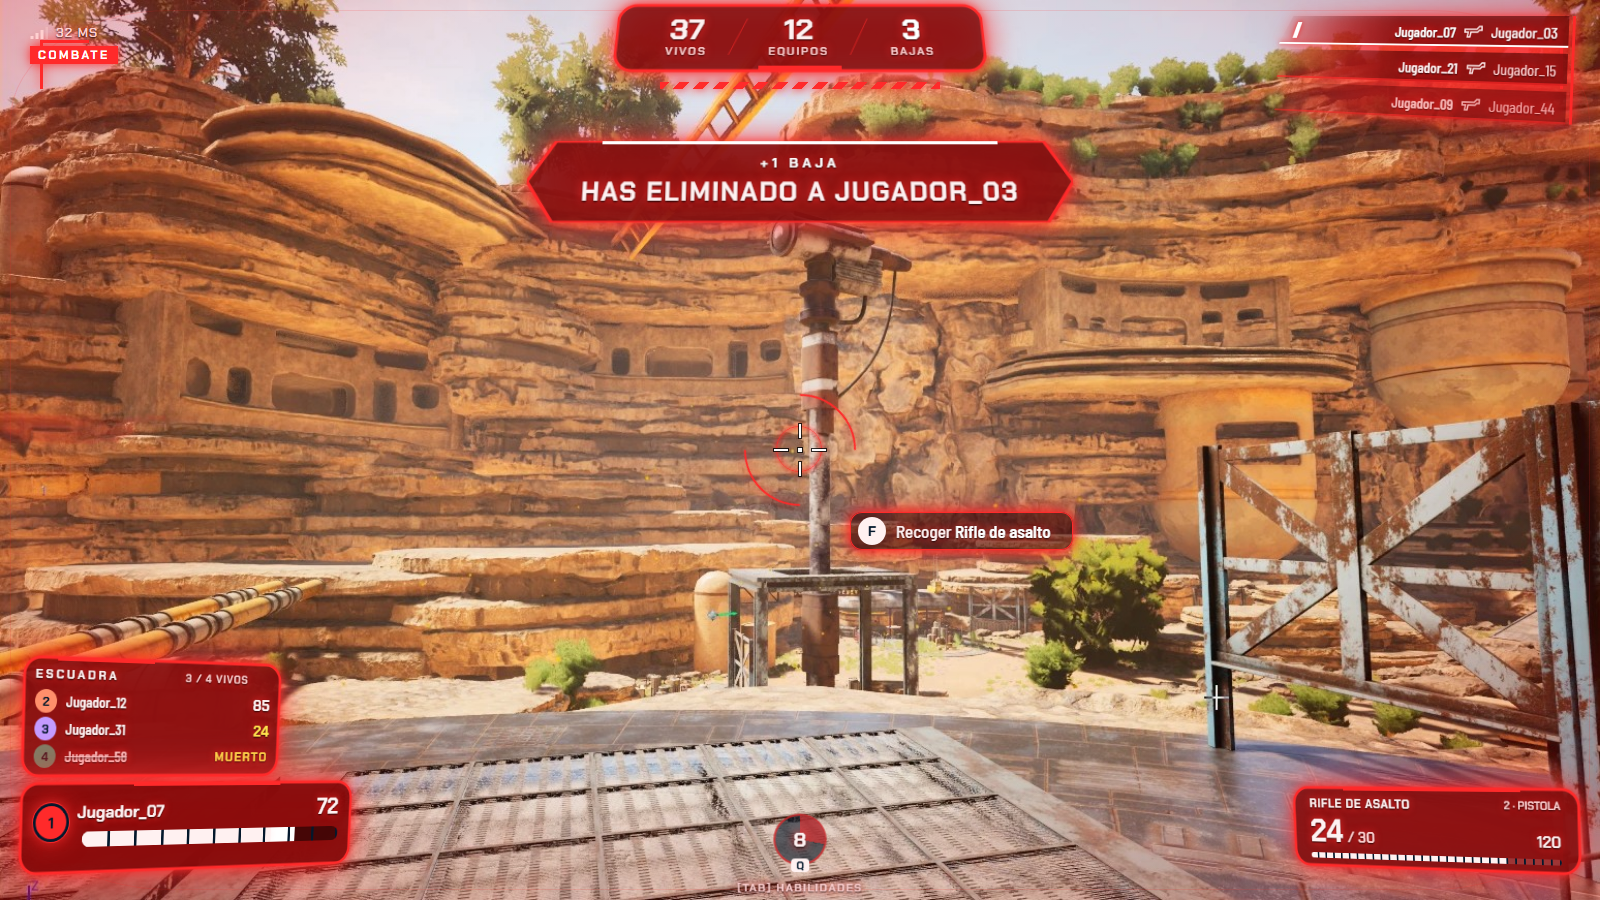
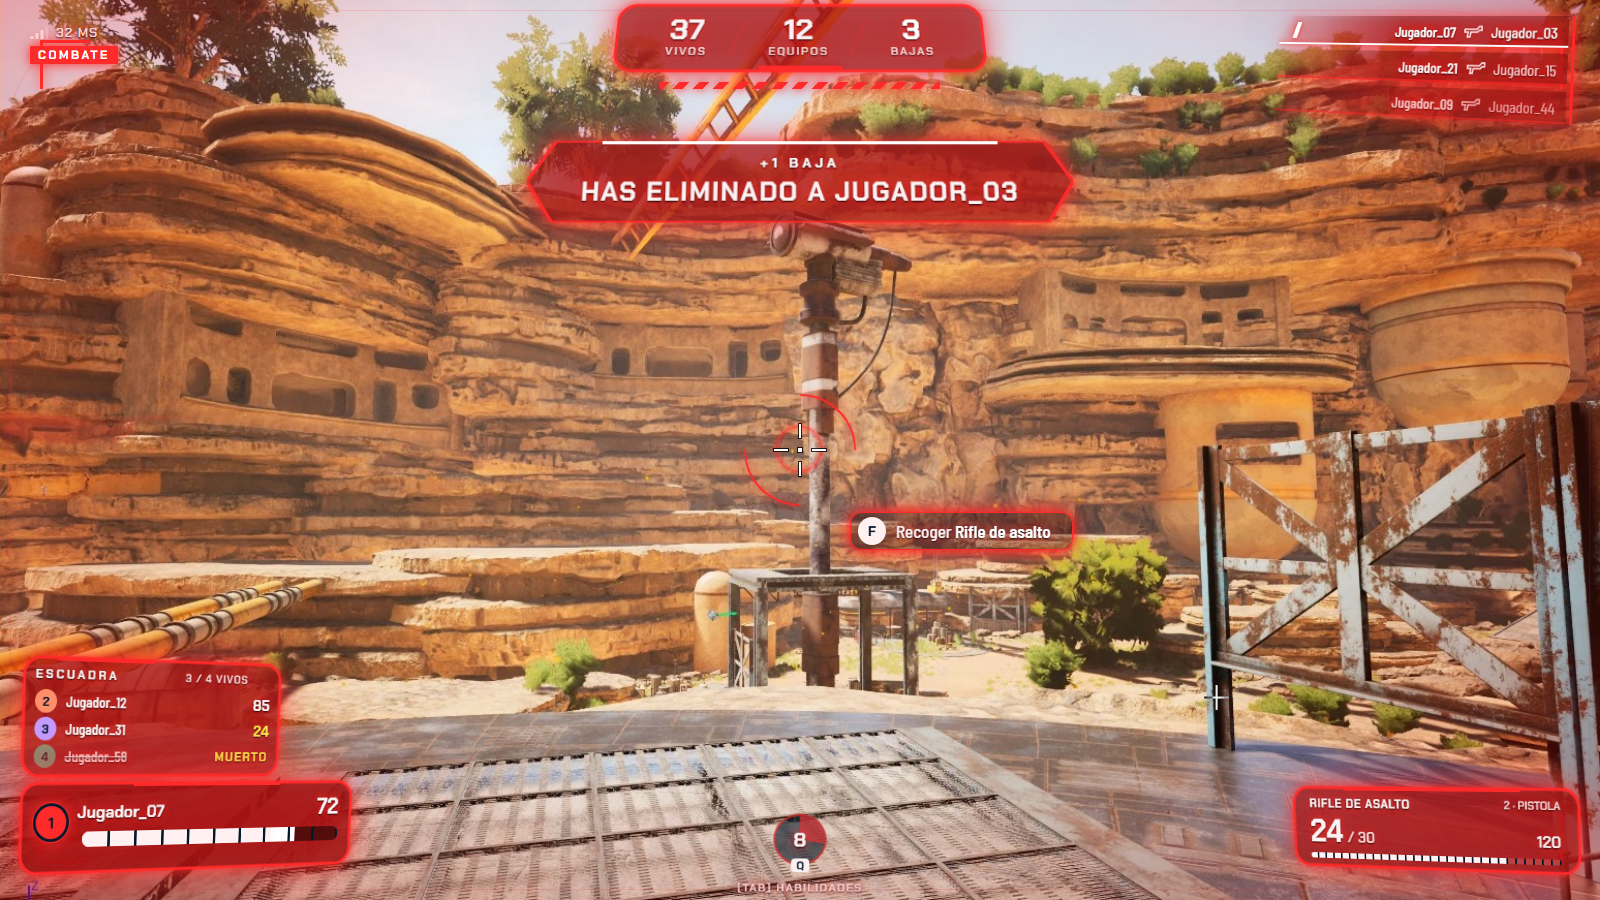
HUD mockup: more transparent panels in combat mode

diff --git a/Doc/UI/Mockups/HUD_Animado.html b/Doc/UI/Mockups/HUD_Animado.html
@@ -232,7 +232,7 @@ body:not(.m-combate) .agg{opacity:0}
 </div>
 </div>
 <script>
-const MODES={"normal": {"accent": "#38E1FF", "highlight": "#FFC94A", "panelFill": "rgba(30,150,255,0.16)", "healthFill": "rgba(30,150,255,0.30)", "dim": 0.6, "glow": "#38E1FFDD", "edge": "#38E1FF88", "textMain": "#E6FBFF", "textSub": "#CFEFFF", "critical": "#FF6B78", "strokeW": "2px", "aggressive": false, "showKillBanner": false, "bright": 1, "sat": 1}, "combate": {"accent": "#FF2A2A", "highlight": "#FFFFFF", "panelFill": "rgba(70,0,0,0.6)", "healthFill": "rgba(95,0,0,0.72)", "dim": 1, "glow": "#FF2A2AFF", "edge": "#FF2A2AAA", "textMain": "#FFF1F1", "textSub": "#FFD0D0", "critical": "#FFE14D", "strokeW": "3px", "aggressive": true, "showKillBanner": true, "bright": 1, "sat": 1}, "noche": {"accent": "#FFB23F", "highlight": "#FFFFFF", "panelFill": "rgba(60,32,0,0.45)", "healthFill": "rgba(80,42,0,0.6)", "dim": 0.8, "glow": "#FFB23FEE", "edge": "#FFB23F99", "textMain": "#FFF4E2", "textSub": "#FFE1B5", "critical": "#FF5A5A", "strokeW": "2px", "aggressive": false, "showKillBanner": true, "bright": 0.32, "sat": 0.5}, "sigilo": {"accent": "#39FF88", "highlight": "#E9FF5A", "panelFill": "rgba(0,50,22,0.42)", "healthFill": "rgba(0,70,30,0.58)", "dim": 0.7, "glow": "#39FF88EE", "edge": "#39FF8899", "textMain": "#EBFFF2", "textSub": "#C4FFD9", "critical": "#FF5A5A", "strokeW": "2px", "aggressive": false, "showKillBanner": true, "bright": 1, "sat": 1}, "alerta": {"accent": "#FFE600", "highlight": "#FFFFFF", "panelFill": "rgba(60,50,0,0.5)", "healthFill": "rgba(80,66,0,0.65)", "dim": 0.9, "glow": "#FFE600EE", "edge": "#FFE60099", "textMain": "#FFFCE0", "textSub": "#FFF3A8", "critical": "#FF4A4A", "strokeW": "2px", "aggressive": false, "showKillBanner": true, "bright": 1, "sat": 1}};
+const MODES={"normal": {"accent": "#38E1FF", "highlight": "#FFC94A", "panelFill": "rgba(30,150,255,0.16)", "healthFill": "rgba(30,150,255,0.30)", "dim": 0.6, "glow": "#38E1FFDD", "edge": "#38E1FF88", "textMain": "#E6FBFF", "textSub": "#CFEFFF", "critical": "#FF6B78", "strokeW": "2px", "aggressive": false, "showKillBanner": false, "bright": 1, "sat": 1}, "combate": {"accent": "#FF2A2A", "highlight": "#FFFFFF", "panelFill": "rgba(70,0,0,0.36)", "healthFill": "rgba(95,0,0,0.5)", "dim": 1, "glow": "#FF2A2AFF", "edge": "#FF2A2AAA", "textMain": "#FFF1F1", "textSub": "#FFD0D0", "critical": "#FFE14D", "strokeW": "3px", "aggressive": true, "showKillBanner": true, "bright": 1, "sat": 1}, "noche": {"accent": "#FFB23F", "highlight": "#FFFFFF", "panelFill": "rgba(60,32,0,0.45)", "healthFill": "rgba(80,42,0,0.6)", "dim": 0.8, "glow": "#FFB23FEE", "edge": "#FFB23F99", "textMain": "#FFF4E2", "textSub": "#FFE1B5", "critical": "#FF5A5A", "strokeW": "2px", "aggressive": false, "showKillBanner": true, "bright": 0.32, "sat": 0.5}, "sigilo": {"accent": "#39FF88", "highlight": "#E9FF5A", "panelFill": "rgba(0,50,22,0.42)", "healthFill": "rgba(0,70,30,0.58)", "dim": 0.7, "glow": "#39FF88EE", "edge": "#39FF8899", "textMain": "#EBFFF2", "textSub": "#C4FFD9", "critical": "#FF5A5A", "strokeW": "2px", "aggressive": false, "showKillBanner": true, "bright": 1, "sat": 1}, "alerta": {"accent": "#FFE600", "highlight": "#FFFFFF", "panelFill": "rgba(60,50,0,0.5)", "healthFill": "rgba(80,66,0,0.65)", "dim": 0.9, "glow": "#FFE600EE", "edge": "#FFE60099", "textMain": "#FFFCE0", "textSub": "#FFF3A8", "critical": "#FF4A4A", "strokeW": "2px", "aggressive": false, "showKillBanner": true, "bright": 1, "sat": 1}};
 const ORDER=["normal", "combate", "noche", "sigilo", "alerta"];
 const root=document.querySelector('#stage>div'), hud=document.querySelector('.hudlayer');
 let cur=null, timer=null;

diff --git a/Doc/UI/Mockups/HUD_Escenario1.dc.html b/Doc/UI/Mockups/HUD_Escenario1.dc.html
@@ -213,7 +213,7 @@ class Component extends DCLogic {
   renderVals() {
     const MODES = {
       normal: { accent: '#38E1FF', highlight: '#FFC94A', panelFill: 'rgba(30,150,255,0.16)', healthFill: 'rgba(30,150,255,0.30)', dim: 0.6, glow: '#38E1FFDD', edge: '#38E1FF88', textMain: '#E6FBFF', textSub: '#CFEFFF', critical: '#FF6B78', sceneFilter: 'none', strokeW: 2, aggressive: false, showKillBanner: false },
-      combate: { accent: '#FF2A2A', highlight: '#FFFFFF', panelFill: 'rgba(70,0,0,0.6)', healthFill: 'rgba(95,0,0,0.72)', dim: 1, glow: '#FF2A2AFF', edge: '#FF2A2AAA', textMain: '#FFF1F1', textSub: '#FFD0D0', critical: '#FFE14D', sceneFilter: 'none', strokeW: 3, aggressive: true, showKillBanner: true },
+      combate: { accent: '#FF2A2A', highlight: '#FFFFFF', panelFill: 'rgba(70,0,0,0.36)', healthFill: 'rgba(95,0,0,0.5)', dim: 1, glow: '#FF2A2AFF', edge: '#FF2A2AAA', textMain: '#FFF1F1', textSub: '#FFD0D0', critical: '#FFE14D', sceneFilter: 'none', strokeW: 3, aggressive: true, showKillBanner: true },
       noche: { accent: '#FFB23F', highlight: '#FFFFFF', panelFill: 'rgba(60,32,0,0.45)', healthFill: 'rgba(80,42,0,0.6)', dim: 0.8, glow: '#FFB23FEE', edge: '#FFB23F99', textMain: '#FFF4E2', textSub: '#FFE1B5', critical: '#FF5A5A', sceneFilter: 'brightness(0.32) saturate(0.5)', strokeW: 2, aggressive: false, showKillBanner: true },
       sigilo: { accent: '#39FF88', highlight: '#E9FF5A', panelFill: 'rgba(0,50,22,0.42)', healthFill: 'rgba(0,70,30,0.58)', dim: 0.7, glow: '#39FF88EE', edge: '#39FF8899', textMain: '#EBFFF2', textSub: '#C4FFD9', critical: '#FF5A5A', sceneFilter: 'none', strokeW: 2, aggressive: false, showKillBanner: true },
       alerta: { accent: '#FFE600', highlight: '#FFFFFF', panelFill: 'rgba(60,50,0,0.5)', healthFill: 'rgba(80,66,0,0.65)', dim: 0.9, glow: '#FFE600EE', edge: '#FFE60099', textMain: '#FFFCE0', textSub: '#FFF3A8', critical: '#FF4A4A', sceneFilter: 'none', strokeW: 2, aggressive: false, showKillBanner: true }

diff --git a/Doc/UI/Mockups/HUD_Escenario2.dc.html b/Doc/UI/Mockups/HUD_Escenario2.dc.html
@@ -213,7 +213,7 @@ class Component extends DCLogic {
   renderVals() {
     const MODES = {
       normal: { accent: '#38E1FF', highlight: '#FFC94A', panelFill: 'rgba(30,150,255,0.16)', healthFill: 'rgba(30,150,255,0.30)', dim: 0.6, glow: '#38E1FFDD', edge: '#38E1FF88', textMain: '#E6FBFF', textSub: '#CFEFFF', critical: '#FF6B78', sceneFilter: 'none', strokeW: 2, aggressive: false, showKillBanner: false },
-      combate: { accent: '#FF2A2A', highlight: '#FFFFFF', panelFill: 'rgba(70,0,0,0.6)', healthFill: 'rgba(95,0,0,0.72)', dim: 1, glow: '#FF2A2AFF', edge: '#FF2A2AAA', textMain: '#FFF1F1', textSub: '#FFD0D0', critical: '#FFE14D', sceneFilter: 'none', strokeW: 3, aggressive: true, showKillBanner: true },
+      combate: { accent: '#FF2A2A', highlight: '#FFFFFF', panelFill: 'rgba(70,0,0,0.36)', healthFill: 'rgba(95,0,0,0.5)', dim: 1, glow: '#FF2A2AFF', edge: '#FF2A2AAA', textMain: '#FFF1F1', textSub: '#FFD0D0', critical: '#FFE14D', sceneFilter: 'none', strokeW: 3, aggressive: true, showKillBanner: true },
       noche: { accent: '#FFB23F', highlight: '#FFFFFF', panelFill: 'rgba(60,32,0,0.45)', healthFill: 'rgba(80,42,0,0.6)', dim: 0.8, glow: '#FFB23FEE', edge: '#FFB23F99', textMain: '#FFF4E2', textSub: '#FFE1B5', critical: '#FF5A5A', sceneFilter: 'brightness(0.32) saturate(0.5)', strokeW: 2, aggressive: false, showKillBanner: true },
       sigilo: { accent: '#39FF88', highlight: '#E9FF5A', panelFill: 'rgba(0,50,22,0.42)', healthFill: 'rgba(0,70,30,0.58)', dim: 0.7, glow: '#39FF88EE', edge: '#39FF8899', textMain: '#EBFFF2', textSub: '#C4FFD9', critical: '#FF5A5A', sceneFilter: 'none', strokeW: 2, aggressive: false, showKillBanner: true },
       alerta: { accent: '#FFE600', highlight: '#FFFFFF', panelFill: 'rgba(60,50,0,0.5)', healthFill: 'rgba(80,66,0,0.65)', dim: 0.9, glow: '#FFE600EE', edge: '#FFE60099', textMain: '#FFFCE0', textSub: '#FFF3A8', critical: '#FF4A4A', sceneFilter: 'none', strokeW: 2, aggressive: false, showKillBanner: true }

diff --git a/Doc/UI/Mockups/HUD_Escenario3.dc.html b/Doc/UI/Mockups/HUD_Escenario3.dc.html
@@ -213,7 +213,7 @@ class Component extends DCLogic {
   renderVals() {
     const MODES = {
       normal: { accent: '#38E1FF', highlight: '#FFC94A', panelFill: 'rgba(30,150,255,0.16)', healthFill: 'rgba(30,150,255,0.30)', dim: 0.6, glow: '#38E1FFDD', edge: '#38E1FF88', textMain: '#E6FBFF', textSub: '#CFEFFF', critical: '#FF6B78', sceneFilter: 'none', strokeW: 2, aggressive: false, showKillBanner: false },
-      combate: { accent: '#FF2A2A', highlight: '#FFFFFF', panelFill: 'rgba(70,0,0,0.6)', healthFill: 'rgba(95,0,0,0.72)', dim: 1, glow: '#FF2A2AFF', edge: '#FF2A2AAA', textMain: '#FFF1F1', textSub: '#FFD0D0', critical: '#FFE14D', sceneFilter: 'none', strokeW: 3, aggressive: true, showKillBanner: true },
+      combate: { accent: '#FF2A2A', highlight: '#FFFFFF', panelFill: 'rgba(70,0,0,0.36)', healthFill: 'rgba(95,0,0,0.5)', dim: 1, glow: '#FF2A2AFF', edge: '#FF2A2AAA', textMain: '#FFF1F1', textSub: '#FFD0D0', critical: '#FFE14D', sceneFilter: 'none', strokeW: 3, aggressive: true, showKillBanner: true },
       noche: { accent: '#FFB23F', highlight: '#FFFFFF', panelFill: 'rgba(60,32,0,0.45)', healthFill: 'rgba(80,42,0,0.6)', dim: 0.8, glow: '#FFB23FEE', edge: '#FFB23F99', textMain: '#FFF4E2', textSub: '#FFE1B5', critical: '#FF5A5A', sceneFilter: 'brightness(0.32) saturate(0.5)', strokeW: 2, aggressive: false, showKillBanner: true },
       sigilo: { accent: '#39FF88', highlight: '#E9FF5A', panelFill: 'rgba(0,50,22,0.42)', healthFill: 'rgba(0,70,30,0.58)', dim: 0.7, glow: '#39FF88EE', edge: '#39FF8899', textMain: '#EBFFF2', textSub: '#C4FFD9', critical: '#FF5A5A', sceneFilter: 'none', strokeW: 2, aggressive: false, showKillBanner: true },
       alerta: { accent: '#FFE600', highlight: '#FFFFFF', panelFill: 'rgba(60,50,0,0.5)', healthFill: 'rgba(80,66,0,0.65)', dim: 0.9, glow: '#FFE600EE', edge: '#FFE60099', textMain: '#FFFCE0', textSub: '#FFF3A8', critical: '#FF4A4A', sceneFilter: 'none', strokeW: 2, aggressive: false, showKillBanner: true }

diff --git a/Doc/UI/Mockups/HUD_Escenario4.dc.html b/Doc/UI/Mockups/HUD_Escenario4.dc.html
@@ -213,7 +213,7 @@ class Component extends DCLogic {
   renderVals() {
     const MODES = {
       normal: { accent: '#38E1FF', highlight: '#FFC94A', panelFill: 'rgba(30,150,255,0.16)', healthFill: 'rgba(30,150,255,0.30)', dim: 0.6, glow: '#38E1FFDD', edge: '#38E1FF88', textMain: '#E6FBFF', textSub: '#CFEFFF', critical: '#FF6B78', sceneFilter: 'none', strokeW: 2, aggressive: false, showKillBanner: false },
-      combate: { accent: '#FF2A2A', highlight: '#FFFFFF', panelFill: 'rgba(70,0,0,0.6)', healthFill: 'rgba(95,0,0,0.72)', dim: 1, glow: '#FF2A2AFF', edge: '#FF2A2AAA', textMain: '#FFF1F1', textSub: '#FFD0D0', critical: '#FFE14D', sceneFilter: 'none', strokeW: 3, aggressive: true, showKillBanner: true },
+      combate: { accent: '#FF2A2A', highlight: '#FFFFFF', panelFill: 'rgba(70,0,0,0.36)', healthFill: 'rgba(95,0,0,0.5)', dim: 1, glow: '#FF2A2AFF', edge: '#FF2A2AAA', textMain: '#FFF1F1', textSub: '#FFD0D0', critical: '#FFE14D', sceneFilter: 'none', strokeW: 3, aggressive: true, showKillBanner: true },
       noche: { accent: '#FFB23F', highlight: '#FFFFFF', panelFill: 'rgba(60,32,0,0.45)', healthFill: 'rgba(80,42,0,0.6)', dim: 0.8, glow: '#FFB23FEE', edge: '#FFB23F99', textMain: '#FFF4E2', textSub: '#FFE1B5', critical: '#FF5A5A', sceneFilter: 'brightness(0.32) saturate(0.5)', strokeW: 2, aggressive: false, showKillBanner: true },
       sigilo: { accent: '#39FF88', highlight: '#E9FF5A', panelFill: 'rgba(0,50,22,0.42)', healthFill: 'rgba(0,70,30,0.58)', dim: 0.7, glow: '#39FF88EE', edge: '#39FF8899', textMain: '#EBFFF2', textSub: '#C4FFD9', critical: '#FF5A5A', sceneFilter: 'none', strokeW: 2, aggressive: false, showKillBanner: true },
       alerta: { accent: '#FFE600', highlight: '#FFFFFF', panelFill: 'rgba(60,50,0,0.5)', healthFill: 'rgba(80,66,0,0.65)', dim: 0.9, glow: '#FFE600EE', edge: '#FFE60099', textMain: '#FFFCE0', textSub: '#FFF3A8', critical: '#FF4A4A', sceneFilter: 'none', strokeW: 2, aggressive: false, showKillBanner: true }

diff --git a/Doc/UI/Mockups/HUD_Escenario5.dc.html b/Doc/UI/Mockups/HUD_Escenario5.dc.html
@@ -213,7 +213,7 @@ class Component extends DCLogic {
   renderVals() {
     const MODES = {
       normal: { accent: '#38E1FF', highlight: '#FFC94A', panelFill: 'rgba(30,150,255,0.16)', healthFill: 'rgba(30,150,255,0.30)', dim: 0.6, glow: '#38E1FFDD', edge: '#38E1FF88', textMain: '#E6FBFF', textSub: '#CFEFFF', critical: '#FF6B78', sceneFilter: 'none', strokeW: 2, aggressive: false, showKillBanner: false },
-      combate: { accent: '#FF2A2A', highlight: '#FFFFFF', panelFill: 'rgba(70,0,0,0.6)', healthFill: 'rgba(95,0,0,0.72)', dim: 1, glow: '#FF2A2AFF', edge: '#FF2A2AAA', textMain: '#FFF1F1', textSub: '#FFD0D0', critical: '#FFE14D', sceneFilter: 'none', strokeW: 3, aggressive: true, showKillBanner: true },
+      combate: { accent: '#FF2A2A', highlight: '#FFFFFF', panelFill: 'rgba(70,0,0,0.36)', healthFill: 'rgba(95,0,0,0.5)', dim: 1, glow: '#FF2A2AFF', edge: '#FF2A2AAA', textMain: '#FFF1F1', textSub: '#FFD0D0', critical: '#FFE14D', sceneFilter: 'none', strokeW: 3, aggressive: true, showKillBanner: true },
       noche: { accent: '#FFB23F', highlight: '#FFFFFF', panelFill: 'rgba(60,32,0,0.45)', healthFill: 'rgba(80,42,0,0.6)', dim: 0.8, glow: '#FFB23FEE', edge: '#FFB23F99', textMain: '#FFF4E2', textSub: '#FFE1B5', critical: '#FF5A5A', sceneFilter: 'brightness(0.32) saturate(0.5)', strokeW: 2, aggressive: false, showKillBanner: true },
       sigilo: { accent: '#39FF88', highlight: '#E9FF5A', panelFill: 'rgba(0,50,22,0.42)', healthFill: 'rgba(0,70,30,0.58)', dim: 0.7, glow: '#39FF88EE', edge: '#39FF8899', textMain: '#EBFFF2', textSub: '#C4FFD9', critical: '#FF5A5A', sceneFilter: 'none', strokeW: 2, aggressive: false, showKillBanner: true },
       alerta: { accent: '#FFE600', highlight: '#FFFFFF', panelFill: 'rgba(60,50,0,0.5)', healthFill: 'rgba(80,66,0,0.65)', dim: 0.9, glow: '#FFE600EE', edge: '#FFE60099', textMain: '#FFFCE0', textSub: '#FFF3A8', critical: '#FF4A4A', sceneFilter: 'none', strokeW: 2, aggressive: false, showKillBanner: true }

diff --git a/Doc/UI/Mockups/Main.dc.html b/Doc/UI/Mockups/Main.dc.html
@@ -218,7 +218,7 @@ class Component extends DCLogic {
   renderVals() {
     const MODES = {
       normal: { accent: '#38E1FF', highlight: '#FFC94A', panelFill: 'rgba(30,150,255,0.16)', healthFill: 'rgba(30,150,255,0.30)', dim: 0.6, glow: '#38E1FFDD', edge: '#38E1FF88', textMain: '#E6FBFF', textSub: '#CFEFFF', critical: '#FF6B78', sceneFilter: 'none', strokeW: 2, aggressive: false, showKillBanner: false },
-      combate: { accent: '#FF2A2A', highlight: '#FFFFFF', panelFill: 'rgba(70,0,0,0.6)', healthFill: 'rgba(95,0,0,0.72)', dim: 1, glow: '#FF2A2AFF', edge: '#FF2A2AAA', textMain: '#FFF1F1', textSub: '#FFD0D0', critical: '#FFE14D', sceneFilter: 'none', strokeW: 3, aggressive: true, showKillBanner: true },
+      combate: { accent: '#FF2A2A', highlight: '#FFFFFF', panelFill: 'rgba(70,0,0,0.36)', healthFill: 'rgba(95,0,0,0.5)', dim: 1, glow: '#FF2A2AFF', edge: '#FF2A2AAA', textMain: '#FFF1F1', textSub: '#FFD0D0', critical: '#FFE14D', sceneFilter: 'none', strokeW: 3, aggressive: true, showKillBanner: true },
       noche: { accent: '#FFB23F', highlight: '#FFFFFF', panelFill: 'rgba(60,32,0,0.45)', healthFill: 'rgba(80,42,0,0.6)', dim: 0.8, glow: '#FFB23FEE', edge: '#FFB23F99', textMain: '#FFF4E2', textSub: '#FFE1B5', critical: '#FF5A5A', sceneFilter: 'brightness(0.32) saturate(0.5)', strokeW: 2, aggressive: false, showKillBanner: true },
       sigilo: { accent: '#39FF88', highlight: '#E9FF5A', panelFill: 'rgba(0,50,22,0.42)', healthFill: 'rgba(0,70,30,0.58)', dim: 0.7, glow: '#39FF88EE', edge: '#39FF8899', textMain: '#EBFFF2', textSub: '#C4FFD9', critical: '#FF5A5A', sceneFilter: 'none', strokeW: 2, aggressive: false, showKillBanner: true },
       alerta: { accent: '#FFE600', highlight: '#FFFFFF', panelFill: 'rgba(60,50,0,0.5)', healthFill: 'rgba(80,66,0,0.65)', dim: 0.9, glow: '#FFE600EE', edge: '#FFE60099', textMain: '#FFFCE0', textSub: '#FFF3A8', critical: '#FF4A4A', sceneFilter: 'none', strokeW: 2, aggressive: false, showKillBanner: true }
